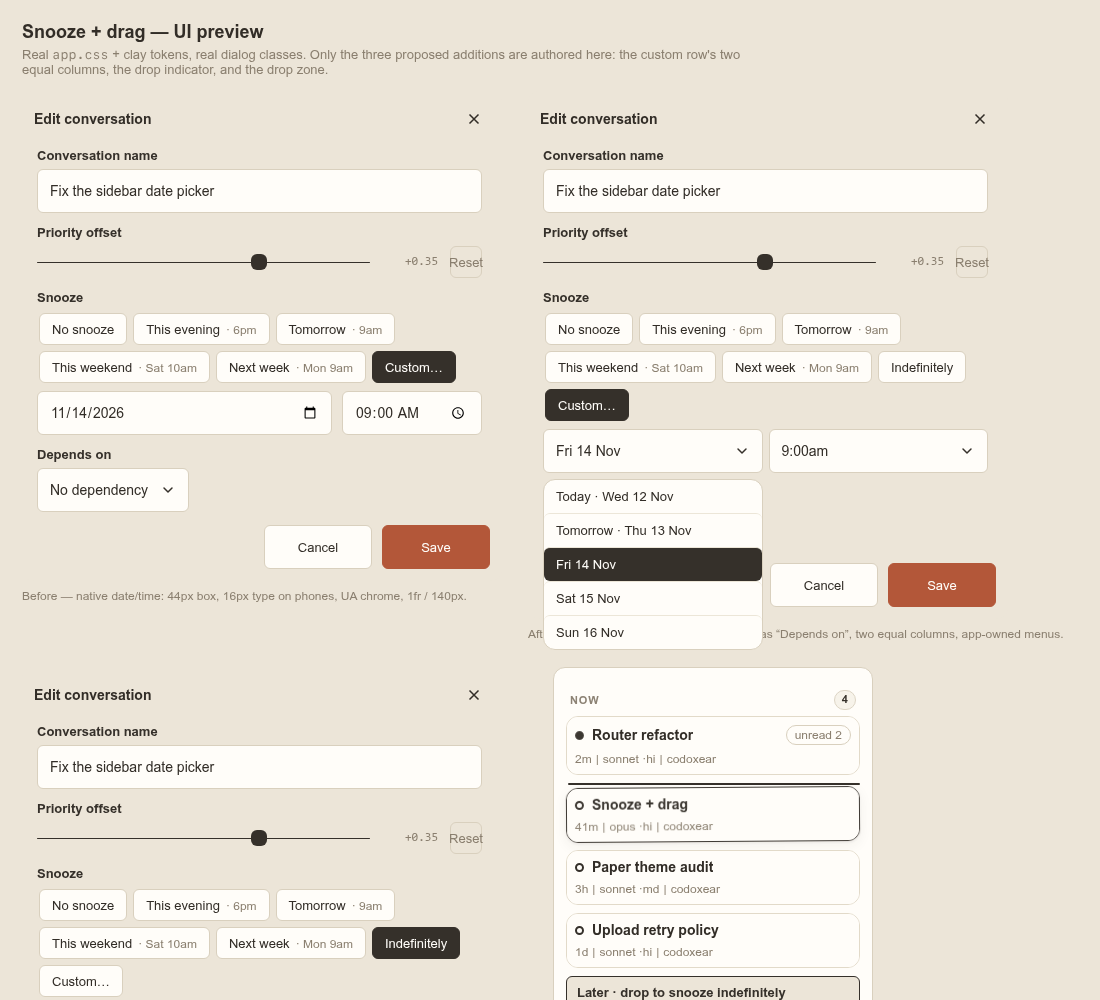
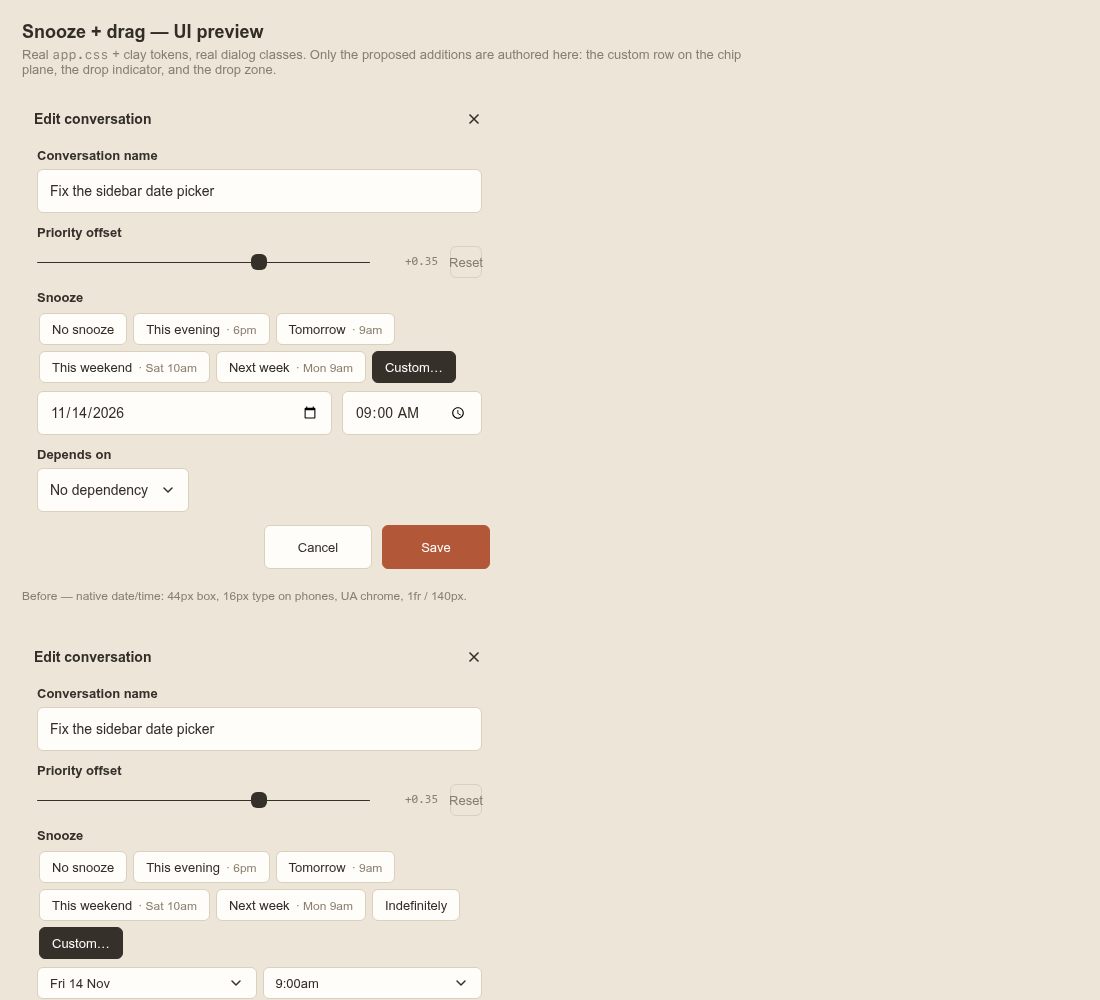
Put the custom snooze pickers on the chip plane (32px), matching the chips

diff --git a/.memory/tasks/2026-11-13-sidebar-snooze-and-drag/mockup.html b/.memory/tasks/2026-11-13-sidebar-snooze-and-drag/mockup.html
@@ -25,14 +25,24 @@
   /* the real dialogs get these from #editViewer-scoped rules; the mock mirrors them */
   .mockDialog .choiceChips { flex-wrap: wrap; gap: var(--space-2); overflow: visible; }
   .mockDialog .formBody { overflow: visible; }
-  /* proposed: custom row on the field plane; pickers fill their column.
-     Phones keep the existing single-column stack (app.css:4206). */
-  .mockDialog .customSnoozeRow .dialogPickerBtn { width: 100%; }
-  @media (min-width: 881px) {
-    .mockDialog .customSnoozeRow {
-      grid-template-columns: minmax(0, 1fr) minmax(0, 1fr);
-      gap: var(--space-2);
-    }
+  /* Proposed: the custom row sits on the CHIP plane, not the field plane —
+     same 32px height, same type token, same hit-area outset as .choiceChip. */
+  .mockDialog .customSnoozeRow .dialogPickerBtn {
+    width: 100%;
+    height: var(--dialog-control-h);
+    min-height: var(--dialog-control-h);
+    padding: 0 var(--space-5);
+    font-size: var(--font-md);
+    position: relative;
+  }
+  .mockDialog .customSnoozeRow .dialogPickerBtn::after {
+    content: ""; position: absolute; inset: -2px;
+  }
+  .mockDialog .customSnoozeRow .pickerButtonPrimary { font-size: var(--font-md); }
+  /* two chip-sized pickers at every width: both labels fit a 166px phone column */
+  .mockDialog .customSnoozeRow {
+    grid-template-columns: minmax(0, 1fr) minmax(0, 1fr);
+    gap: var(--space-2);
   }
   .mockDialog .pickerField { position: relative; }
   .mockSidebar { width: min(320px, 100%); border: 1px solid var(--border); background: var(--paper); padding: 8px; border-radius: var(--radius-card); }
@@ -58,8 +68,8 @@
 </head>
 <body>
 <h1>Snooze + drag — UI preview</h1>
-<p class="note">Real <code>app.css</code> + clay tokens, real dialog classes. Only the three proposed
-additions are authored here: the custom row's two equal columns, the drop indicator, and the drop zone.</p>
+<p class="note">Real <code>app.css</code> + clay tokens, real dialog classes. Only the proposed additions are
+authored here: the custom row on the chip plane, the drop indicator, and the drop zone.</p>
 
 <div class="shots">
 
@@ -131,7 +141,6 @@ additions are authored here: the custom row's two equal columns, the drop indica
                 <button class="fileMenuItem" type="button"><span class="fileMenuPath">Tomorrow · Thu 13 Nov</span></button>
                 <button class="fileMenuItem active" type="button"><span class="fileMenuPath">Fri 14 Nov</span></button>
                 <button class="fileMenuItem" type="button"><span class="fileMenuPath">Sat 15 Nov</span></button>
-                <button class="fileMenuItem" type="button"><span class="fileMenuPath">Sun 16 Nov</span></button>
               </div>
             </div>
             <div class="pickerField">
@@ -150,7 +159,7 @@ additions are authored here: the custom row's two equal columns, the drop indica
       </div>
       <div class="formActions"><button type="button">Cancel</button><button class="primary" type="button">Save</button></div>
     </div>
-    <div class="cap">After — Custom: same field plane and type as “Depends on”, two equal columns, app-owned menus.</div>
+    <div class="cap">After — custom row on the chip plane: 32px, same type token and padding as the chips, two columns, app-owned menus.</div>
   </div>
 
   <!-- 3. AFTER, indefinite -->

diff --git a/.memory/tasks/2026-11-13-sidebar-snooze-and-drag/PLAN.md b/.memory/tasks/2026-11-13-sidebar-snooze-and-drag/PLAN.md
@@ -64,29 +64,48 @@ dependency, so `/edit` keeps its current whole-row contract and is not touched b
 
 ## 3. Custom date/time control
 
-Two `dialogPickerBtn` + `dialogPickerMenu` pairs — the primitive the "Depends on" field already uses
-(`app_dialog_menu.js:39`):
+Two pickers on the **chip plane**, not the field plane. The custom row belongs to the chip row above
+it, so it matches the chips, not the name input:
 
-- Field plane: 44px, type from `--font-lg` (16px on coarse pointers, same as every other field), no UA
-  chrome, no zoom (a `button` is not an entry field).
-- Date menu: next 28 days as `.fileMenuItem` rows (`Today · Wed 12 Nov`, `Tomorrow · Thu 13 Nov`, …),
-  current value `.active`. Fits the menu's `max-height: min(44vh, 360px)`; `positionDialogMenu` flips it
-  above the field when needed.
-- Time menu: 30-minute slots, current value marked and scrolled into view.
-- Pure helpers in `app_snooze.js` (`nextSnoozeDays(count, nowMs)`, `snoozeTimeSlots()`), so the lists
-  are testable without a DOM and inherit the local-`Date` arithmetic the presets use.
-- Save: `new Date(y, m, d, hh, mm)` → epoch seconds (what `Date.parse("YYYY-MM-DDTHH:MM")` produced).
+| | `.choiceChip` | custom pickers |
+| --- | --- | --- |
+| height | `--dialog-control-h` (32px) | same |
+| type | `--font-md` | same |
+| padding | `0 var(--space-5)` | same |
+| hit area | `::after { inset: -2px }` | same |
+| border / radius / fill | 1px `--border`, `--radius-control`, `--paper` | same |
 
-Three details the preview settled:
+Measured in the preview, after: chip 32px/13px, picker 32px/13px. (An earlier attempt put them on the
+44px/16px field plane — same box as the name input — and that is exactly the size difference you
+pointed at. Reverted.)
 
-- `.dialogPickerBtn` has no width rule (only `.sidePickerBtn` does), so the two pickers need
-  `width: 100%` inside the grid or they render ragged.
-- Desktop `≥881px`: `grid-template-columns: minmax(0,1fr) minmax(0,1fr); gap: var(--space-2)`.
-  Phones keep the existing single-column stack (`app.css:4206`) — consistent with every other field.
-- The mock needed `#editViewer`-scoped rules reproduced (chips wrap, `formBody` overflow visible);
-  those already exist in `app.css` for the real dialog, so the implementation inherits them.
+The pickers are `dialogPickerBtn` + `dialogPickerMenu` — the "Depends on" primitive — in two equal
+columns at every width: both labels fit a ~166px phone column (`Fri 14 Nov`, `9:00am`). Pure helpers in
+`app_snooze.js` (`nextSnoozeDays(count, nowMs)`, `snoozeTimeSlots()`) build the menus without a DOM.
 
----
+Rules this needs (each one out-specifies the rule it replaces):
+
+```
+.formViewer .customSnoozeRow {
+  display: none;                                   /* shown by the controller in custom mode */
+  grid-template-columns: minmax(0,1fr) minmax(0,1fr);
+  gap: var(--space-2);                             /* same gutter as the chips */
+}
+.formViewer .customSnoozeRow .dialogPickerBtn {    /* beats .formViewer .dialogPickerBtn (44px) */
+  height: var(--dialog-control-h); minimum: same;
+  padding: 0 var(--space-5); font-size: var(--font-md); position: relative;
+}
+.formViewer .customSnoozeRow .dialogPickerBtn::after { content: ""; position: absolute; inset: -2px; }
+.formViewer .customSnoozeRow .pickerButtonPrimary { font-size: var(--font-md); }
+```
+
+`.customSnoozeRow` also has to come out of the phone media query's single-column list
+(`app.css:4206`), otherwise an equal-specificity rule fights it there.
+
+Menus: date = next 28 days as `.fileMenuItem` rows (`Today · Wed 12 Nov`, `Tomorrow · Thu 13 Nov`, …)
+with the current value `.active`; time = 30-minute slots, current value marked and scrolled into view.
+`positionDialogMenu` already handles the flip and max-height. Save: `new Date(y, m, d, hh, mm)` → epoch
+seconds, what `Date.parse("YYYY-MM-DDTHH:MM")` produced before.
 
 ## 4. Drag
 

diff --git a/.memory/tasks/2026-11-13-sidebar-snooze-and-drag/OPS.md b/.memory/tasks/2026-11-13-sidebar-snooze-and-drag/OPS.md
@@ -132,3 +132,22 @@ Measured while building the preview (implementation notes, not opinions):
   dialog width — visible in the preview's "before" shot, matching the user's screenshot.
 - `#editViewer`-scoped rules (chips wrap, `formBody` overflow visible) are what make the mock behave
   like the real dialog; the implementation inherits them.
+
+## 2026-11-13 — preview correction: chip plane, not field plane
+
+User: "still ugly! don't you notice size difference?" — correct. Measured with
+`getBoundingClientRect()` + `getComputedStyle()` in the preview page, before the fix:
+
+| element | height | font-size |
+| --- | --- | --- |
+| `.choiceChip` | 32px | 13px |
+| my custom date picker | 44px | 16px (`--font-lg`) |
+
+So v3 §3 had put the custom row on the same plane as the name input, which left the *field-internal*
+size difference the user was complaining about. Corrected: custom pickers now use
+`--dialog-control-h`, `--font-md`, `0 var(--space-5)` padding and the chips' `::after { inset: -2px }`
+hit area, two equal columns at every width. Re-measured after the change: chip 32px/13px, date picker
+32px/13px, time picker 32px/13px; the "Depends on" field correctly stays 44px/14px because it is a
+field, not a chip.
+
+Screenshots regenerated (`preview-desktop.png` at 1100×1000, `preview-phone.png` at 430×1150).
